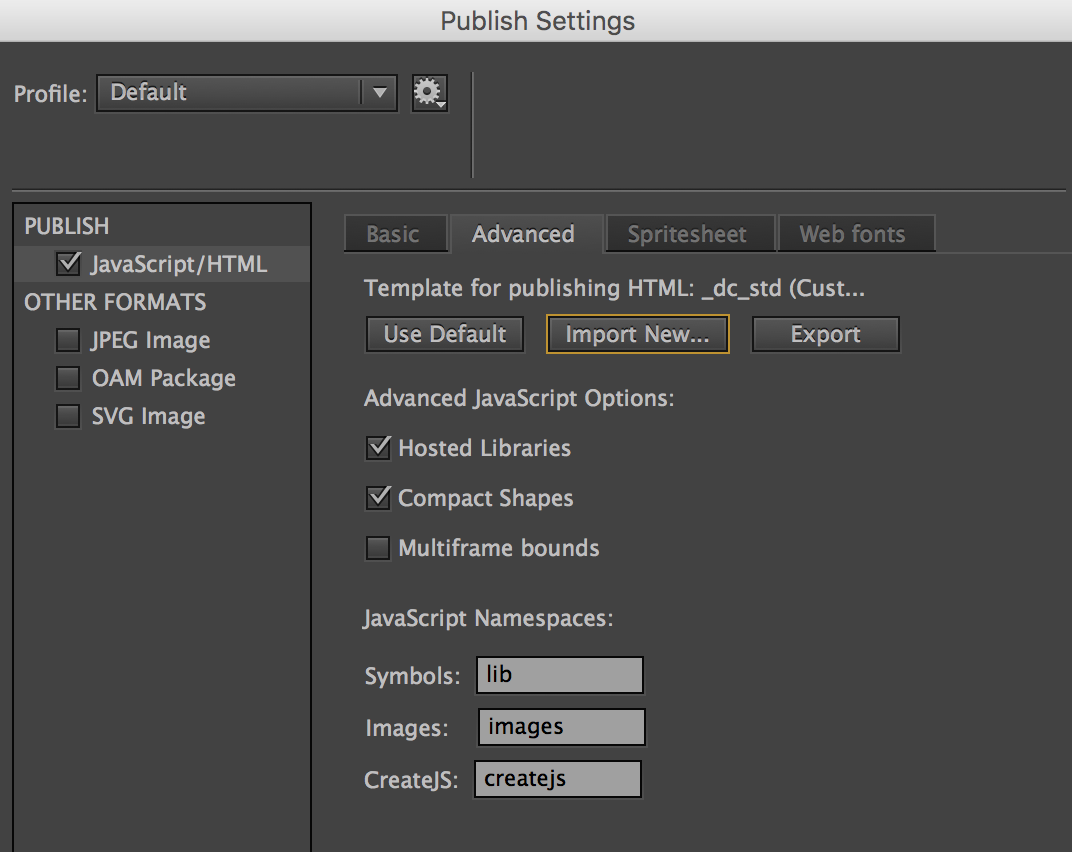
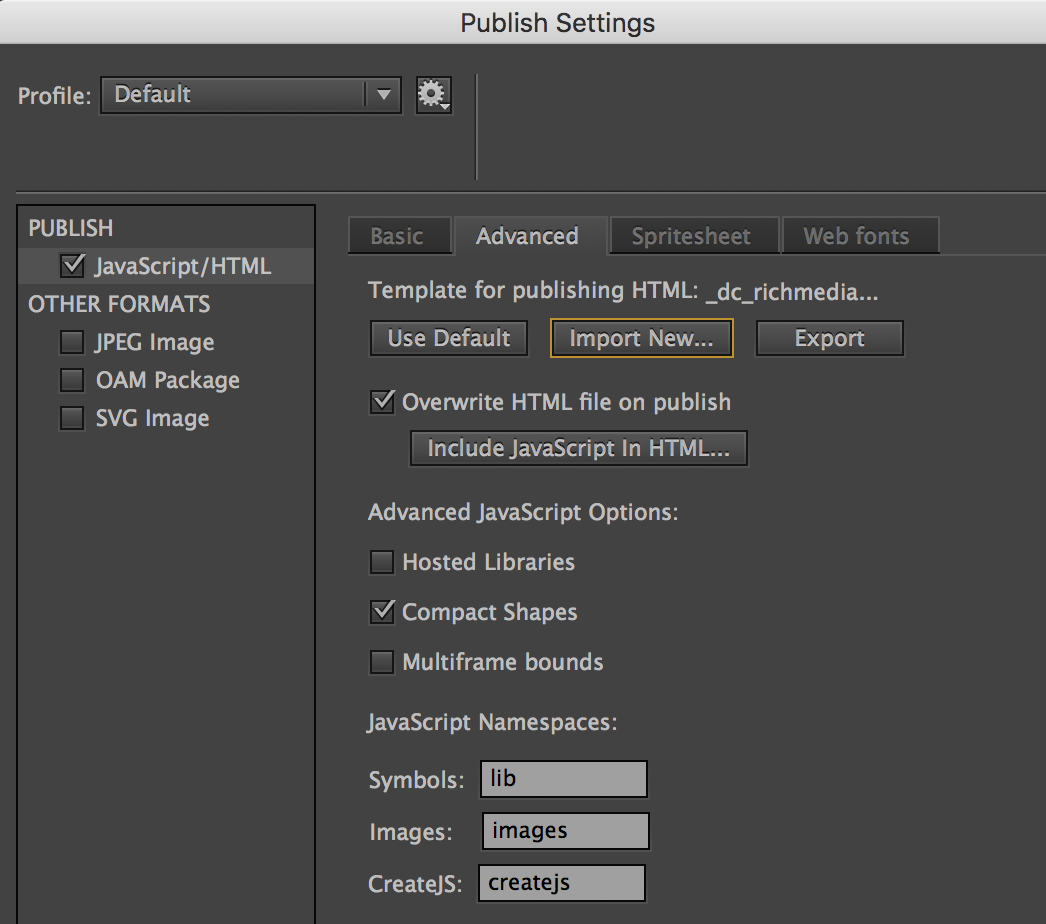
ready

Changed region(s): [[0.0, 0.0, 1.0, 1.0], [0.3365, 0.7629, 0.6424, 0.9765], [0.3365, 0.7019, 0.5813, 0.7324]]

diff --git a/readme.md b/readme.md
@@ -4,14 +4,16 @@ Fast Banner Template for Animate CC
 
 
 * This is a banner template with Animate CC in fast production envirenment.
-* Build HTML5 banners with old Flash timeline control, blending, filter, vector masking and shape tween.
+* Build HTML5 banners with oldschool Flash timeline control, blending, filter, vector masking and shape tween.
 
 #### Features
 
 * Animate banners fast using Animate CC.
-* Supports [DoubleClick Richmedia(Studio)](https://support.google.com/richmedia/answer/2672545), [DCM Standard(with ClickTag)](https://support.google.com/richmedia/answer/6279525?hl=en), DFP Standard(with DFP macro), [AdSense/Adwords/GDN Image ads](https://support.google.com/adwordspolicy/answer/176108?hl=en-AU) and [Sizmek(MediaMind)](https://www.sizmek.com/html5-guides/).
-* Never worry about QA rejection.
+* Supports version 2017(latest) and 2015.2.
+* Supports [DoubleClick Richmedia(Studio)](https://support.google.com/richmedia/answer/2672545), [DCM Standard(with ClickTag)](https://support.google.com/richmedia/answer/6279525?hl=en), [AdSense/Adwords/GDN Image ads](https://support.google.com/adwordspolicy/answer/176108?hl=en-AU) and [Sizmek(MediaMind)](https://www.sizmek.com/html5-guides/).
+* Never worry about DC's QA rejection again.
 * Uses Google/Sizmek hosted [CreateJS](http://www.createjs.com/). This doesn't count towards the ad server/publisher's max filesize limit.
+* Polite loading with preloader
 
 #### Requirements
 
@@ -24,15 +26,14 @@ Start building banners
 2. Open the .fla file. 
 3. Update stage's width and height from Properties window.
 4. Go to Publish Settings. On 'Advanced' tab, click 'Import New' button.
-⋅⋅⋅ Pick the correct template from _export_template/.
+⋅⋅⋅ Pick the correct template from _export_template/[your animacecc version].
 
 ![Animate CC](etc/animatecc_publish.png)
 
-* _dc_richmedia.html - DoubleClick Studio Richmedia
-* _dcm_std.html - DoubleClick Standard banner for DCM
-* _dfp_std.html - DoubleClick Standard banner for DFP (with DFP macro)
-* _gdn_adsense_adwords.html - GDN and AdSense banner
-* _sizmek_std.html - Sizmek Standard banner
+* _dc_richmedia_[version].html - DoubleClick Studio Richmedia
+* _dcm_std.html_[version] - DoubleClick Standard banner for DCM
+* _gdn_adsense_adwords_[version].html - GDN and AdSense banner
+* _sizmek_std_[version].html - Sizmek Standard banner
 
 
 #### /psd folder
